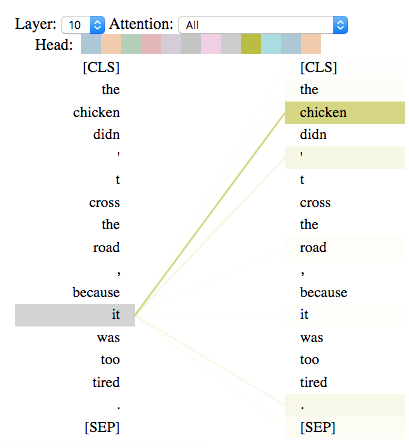
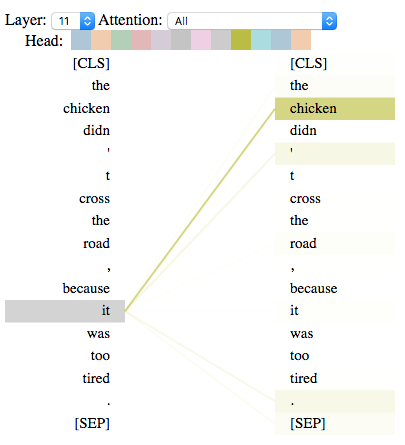
closes #6 (#7)
* Edited display to start with 1, to be more Rtful

* update screenshots

* update to 1-indexing

* bump version

* add NEWS.md file

* copy updated screenshots

diff --git a/inst/htmlwidgets/visualize_attention.js b/inst/htmlwidgets/visualize_attention.js
@@ -388,7 +388,8 @@ HTMLWidgets.widget({
 
             $("#layer").empty();
             for(var i=0; i<num_layers; i++) {
-              $("#layer").append($("<option />").val(i).text(i));
+              // Edited display to start with 1, to be more Rtful. -JDB
+              $("#layer").append($("<option />").val(i).text(i+1));
             }
 
             $("#layer").on('change', function(e) {

diff --git a/NEWS.md b/NEWS.md
@@ -1,0 +1,4 @@
+# RBERTviz 0.1.9
+
+* Edited attention visualizer to start layer indexing from 1, rather than 0.
+* Added a `NEWS.md` file to track changes to the package.
